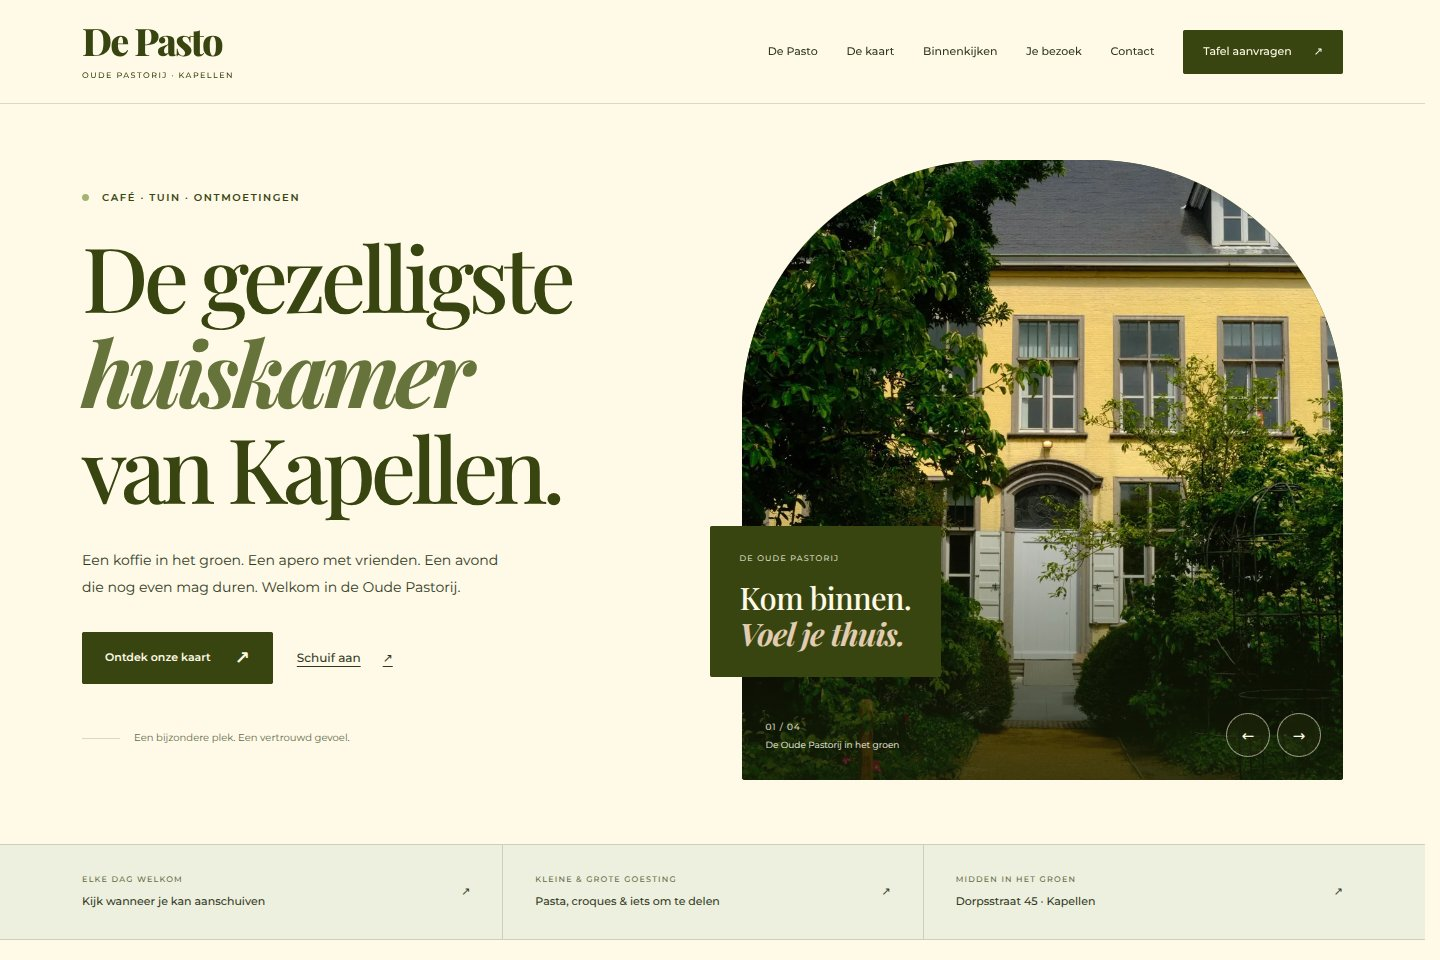
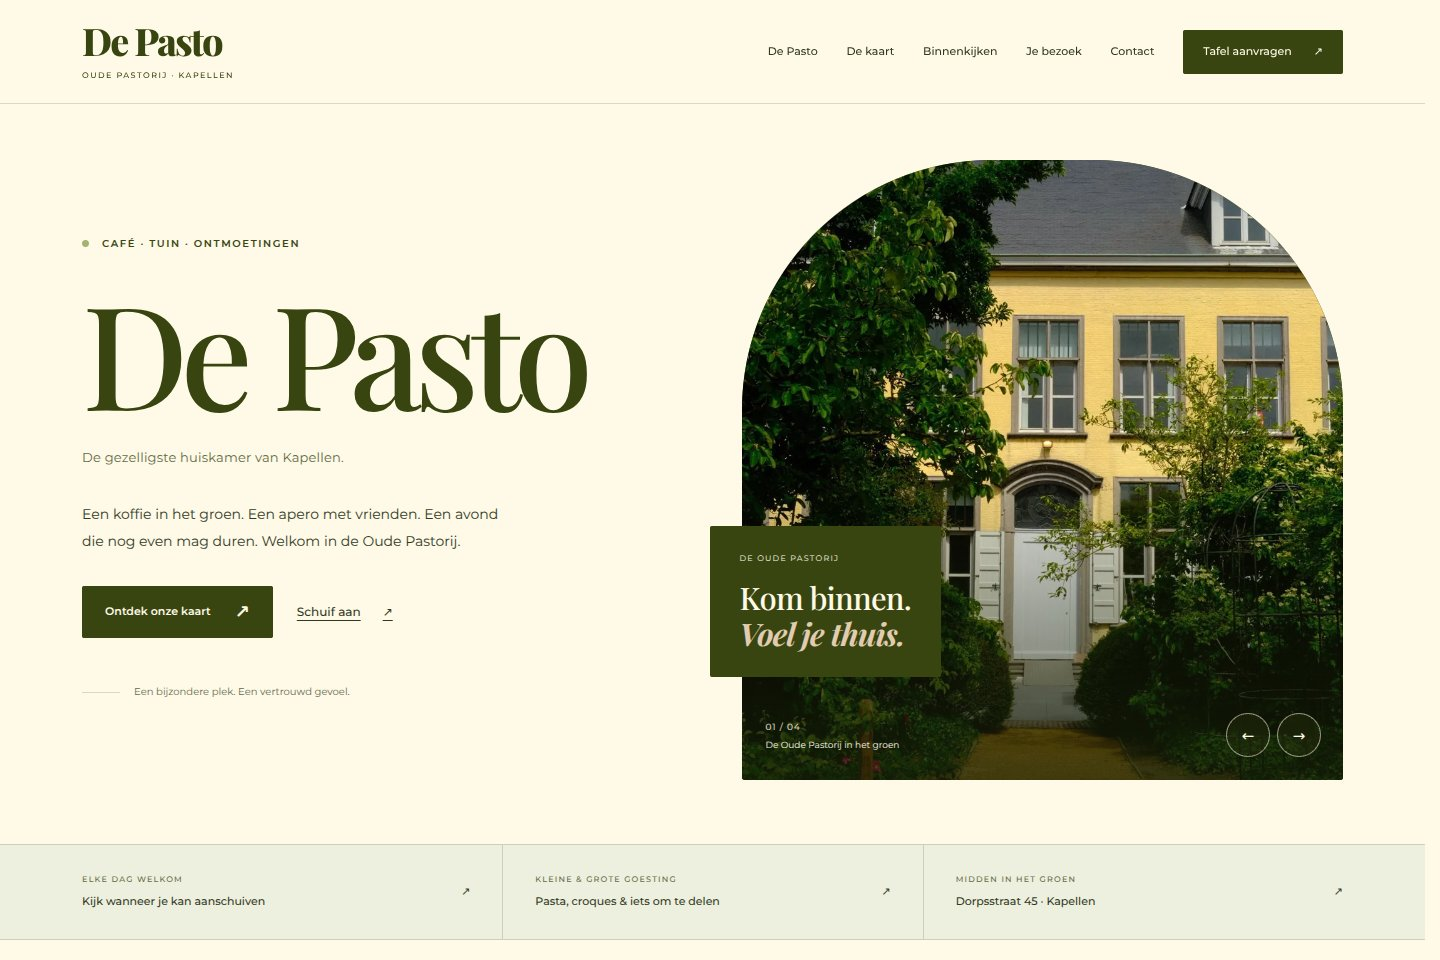
Make the homepage slogan secondary to De Pasto
Use De Pasto as the main hero heading and keep the slogan as a small supporting line. Refresh desktop/mobile previews; verified the hero at 320, 390, 768 and 1440 pixels.

Changed region(s): [[0.0312, 0.25, 0.4062, 0.7812], [0.0625, 0.1875, 0.1875, 0.2188]]

diff --git a/assets/css/style.css b/assets/css/style.css
@@ -99,8 +99,8 @@ address { font-style: normal; }
 .eyebrow { margin: 0 0 23px; color: var(--green); font-size: 10px; font-weight: 600; letter-spacing: .16em; line-height: 1.6; text-transform: uppercase; }
 .hero-location { display: flex; align-items: center; gap: 13px; }
 .hero-location > span { width: 7px; height: 7px; border-radius: 50%; background: var(--sage); }
-.hero h1 { line-height: 1.06; letter-spacing: -.057em; }
-.hero h1 em { color: #66743c; }
+.hero h1 { font-size: clamp(88px, 10vw, 150px); line-height: 1.06; letter-spacing: -.057em; }
+.hero-tagline { margin: 18px 0 0; color: #626b44; font-size: 13px; font-weight: 400; letter-spacing: .015em; }
 .hero-description { max-width: 420px; margin: 32px 0; font-size: 14px; line-height: 1.9; }
 .hero-actions { display: flex; align-items: center; flex-wrap: wrap; gap: 24px; }
 .btn { display: inline-flex; align-items: center; justify-content: center; gap: 24px; min-height: 52px; padding: 14px 22px; border: 1px solid var(--green); border-radius: 2px; color: var(--green); font-size: 11px; font-weight: 600; text-decoration: none; transition: background .2s, color .2s; }
@@ -291,7 +291,7 @@ address { font-style: normal; }
   .site-nav .nav-reservation { margin-top: 8px; justify-content: space-between; padding: 12px 18px; }
   .hero { grid-template-columns: 1fr; gap: 40px; padding-top: 35px; }
   .hero-card { padding: 0; }
-  .hero h1 { font-size: clamp(58px, 9vw, 82px); }
+  .hero h1 { font-size: clamp(88px, 14vw, 126px); }
   .hero-description { max-width: 480px; }
   .hero-footnote { margin-top: 28px; }
   .hero-visual { min-height: 0; height: 610px; margin-left: 24px; }
@@ -336,7 +336,8 @@ address { font-style: normal; }
   .section-title-wide { display: block; }
   .section-title-wide > p, .gallery-intro { margin-top: 25px; max-width: 450px; }
   .hero { padding-block: 36px 36px; gap: 33px; }
-  .hero h1 { font-size: clamp(46px, 11.5vw, 76px); }
+  .hero h1 { font-size: clamp(68px, 17vw, 108px); }
+  .hero-tagline { max-width: 310px; margin-top: 13px; font-size: 11px; }
   .hero .eyebrow { font-size: 8px; margin-bottom: 20px; }
   .hero-description { margin-block: 25px; font-size: 13px; }
   .hero-actions { gap: 20px; }

diff --git a/index.php b/index.php
@@ -225,7 +225,8 @@ $assetVersion = static function ($path) {
   <section class="hero" aria-labelledby="hero-title">
     <div class="hero-card">
       <p class="eyebrow hero-location"><span aria-hidden="true"></span> Café · tuin · ontmoetingen</p>
-      <h1 id="hero-title">De gezelligste<br><em>huiskamer</em><br>van Kapellen.</h1>
+      <h1 id="hero-title">De Pasto</h1>
+      <p class="hero-tagline">De gezelligste huiskamer van Kapellen.</p>
       <p class="hero-description">Een koffie in het groen. Een apero met vrienden. Een avond die nog even mag duren. Welkom in de Oude Pastorij.</p>
       <div class="hero-actions"><a class="btn primary" href="#kaart">Ontdek onze kaart <span aria-hidden="true">↗</span></a><a class="text-link" href="#contact" data-contact-intent="reservatie">Schuif aan <span aria-hidden="true">↗</span></a></div>
       <div class="hero-footnote"><span class="fine-rule" aria-hidden="true"></span><span>Een bijzondere plek. Een vertrouwd gevoel.</span></div>
